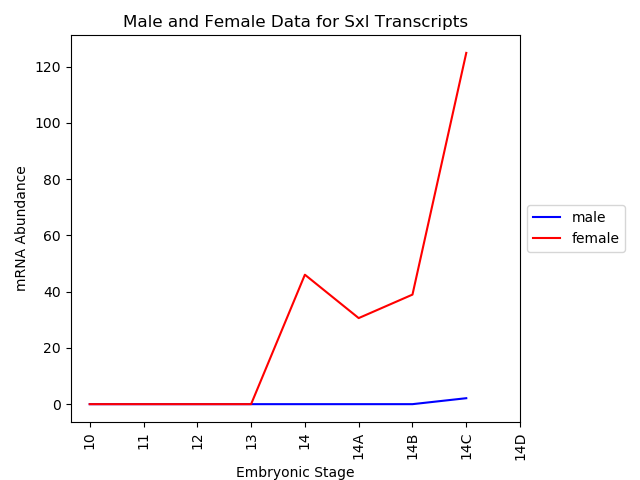
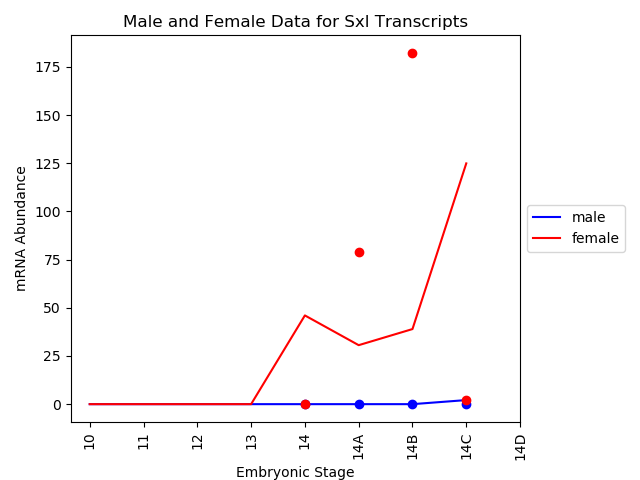
Final problems from D4 HW w/out cleaned up comments

diff --git a/day4-homework/replicates.py b/day4-homework/replicates.py
@@ -1,0 +1,86 @@
+#!/usr/bin/env python3
+
+"""
+Usage: ./02-timecourse.py <t_name> <samples.csv> <FPKMs.>
+./03-timecourse.py FBtr0331261 ~/qbb2019/data/samples.csv all.csv
+Create a time course of a given transcript for feamles and males
+
+
+"""
+
+import sys
+import pandas as pd
+import matplotlib.pyplot as plt
+import numpy as np
+import os
+
+#Specify transctipt of interest 
+t_name = sys.argv[1]
+
+#Load Metadata
+samples = pd.read_csv(sys.argv[2])
+ctab_dir = sys.argv[5]
+
+#Load Metadata
+def sex_sorter(sex):
+    soi = samples.loc[:,"sex"] == sex
+    stages = samples.loc[soi, "stage"]
+
+    #print(srr_ids)
+
+    #Load FPKMS
+    fpkms = pd.read_csv(sys.argv[3], index_col="t_name")
+
+    #Extract Data
+    my_data = []
+    for stage in stages:
+        #print(srr_id)
+        my_data.append(fpkms.loc[t_name,sex+ '_' +stage])
+    return my_data
+
+def sex_replicate(sex):
+    samples = pd.read_csv(sys.argv[4])
+    soi = samples.loc[:,"sex"] == sex
+    srr_ids = samples.loc[soi, "sample"] 
+    my_data = []     
+    for srr_id in srr_ids:
+        # my_data(my_data.loc[t_name, srr_id])
+        #print(srr_id)
+        #my_data.append(fpkms.loc[t_name,srr_id])
+
+        ctab_path = os.path.join(ctab_dir, srr_id,
+                                "t_data.ctab")
+        #print(ctab_path)
+        df = pd.read_csv(ctab_path, sep="\t", 
+                        index_col="t_name")
+        # my_data["gene_name"] = df.loc[:,"gene_name"]
+        my_data.append(df.loc[t_name, "FPKM"])
+    return my_data
+
+#Print my_data
+#print(my_data)
+
+male_data = sex_sorter("male")
+male_data_rep = sex_replicate("male")
+female_data = sex_sorter("female")
+female_data_rep = sex_replicate("female")
+labelz = ["male", "female"]
+labelz2 = ["10", "11", "12", "13", "14", "14A", "14B", "14C", "14D"]
+#Plot
+fig, ax = plt.subplots()
+plt.title("Male and Female Data for Sxl Transcripts")
+plt.xlabel("Embryonic Stage")
+plt.ylabel("mRNA Abundance")
+ax.plot(male_data, color="blue")
+ax.plot(female_data, color="red")
+ax.plot(range(4,8), male_data_rep, 'o', color="blue")
+ax.plot(range(4,8), female_data_rep, 'o', color="red")
+plt.legend(labels= labelz, loc= "center left", bbox_to_anchor=(1, 0.5))
+plt.tight_layout()
+ax.set_xticklabels(labelz2, rotation='vertical')
+ax.set_xticks(np.arange(len(labelz2)))
+fig.savefig("timecourse_male_female.png")
+plt.close(fig)
+
+
+#label = "mu=%f;sigma=%f;a=%f" %(mu,sigma,a)

diff --git a/day4-homework/ma-plot.py b/day4-homework/ma-plot.py
@@ -1,0 +1,50 @@
+#!/usr/bin/env python3
+
+"""
+Usage: ./ma-plot.py <ctab1> <ctab2>
+./03-timecourse.py FBtr0331261 ~/qbb2019/data/samples.csv all.csv
+Create a time course of a given transcript for feamles and males
+
+../results/stringtie/SRR72...
+../results/stringtie SRR072916 SRR072915 SRR072914 
+"""
+#you just have to import two ctab files
+
+import sys
+import pandas as pd
+import matplotlib.pyplot as plt
+import numpy as np
+import os
+
+
+name1 = sys.argv[1].split(os.sep)[-2]
+ctab1 = pd.read_csv(sys.argv[1], sep="\t", index_col="t_name")
+
+name2 = sys.argv[2].split(os.sep)[-2]
+ctab2 = pd.read_csv(sys.argv[2], sep="\t", index_col="t_name")
+
+#fpkm = {"sample1" : [1, 2, 3]
+#        "sample2" : [4, 5, 6]}
+
+fpkm = {name1 : ctab1.loc[:,"FPKM"],
+        name2 : ctab2.loc[:,"FPKM"]}
+
+df = pd.DataFrame(fpkm)
+df += 1
+
+#print(df)
+#print(type(df))
+
+r =df.loc[:,name2]
+g =df.loc[:,name1]
+m = np.log2(r/g)
+a = .5 * np.log2(r*g)
+
+fig, ax = plt.subplots()
+ax.scatter( x=a, y=m, s = 3, alpha = .3)
+ax.set_title("SRR072893 and SRR072894")
+ax.set_xlabel("m")
+ax.set_ylabel("a")
+fig.savefig("ma-plot.png")
+plt.close(fig)
+
